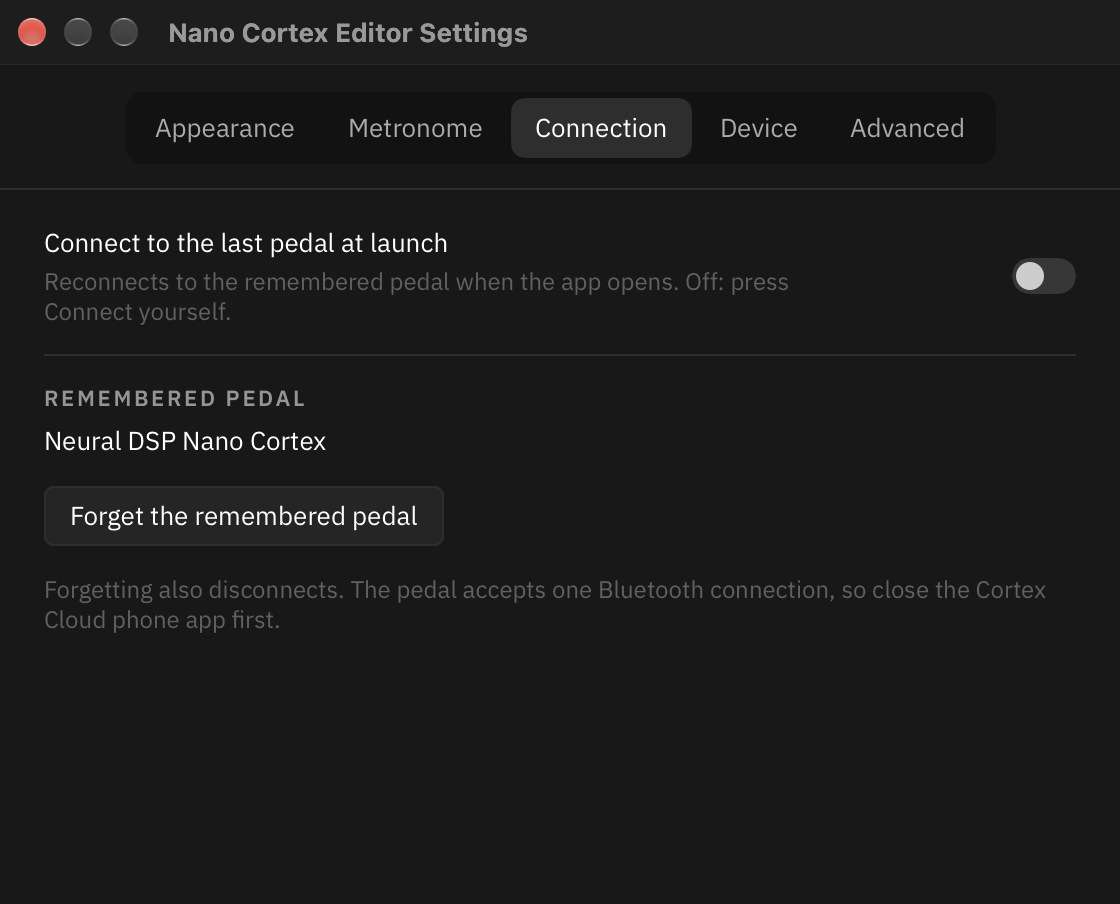
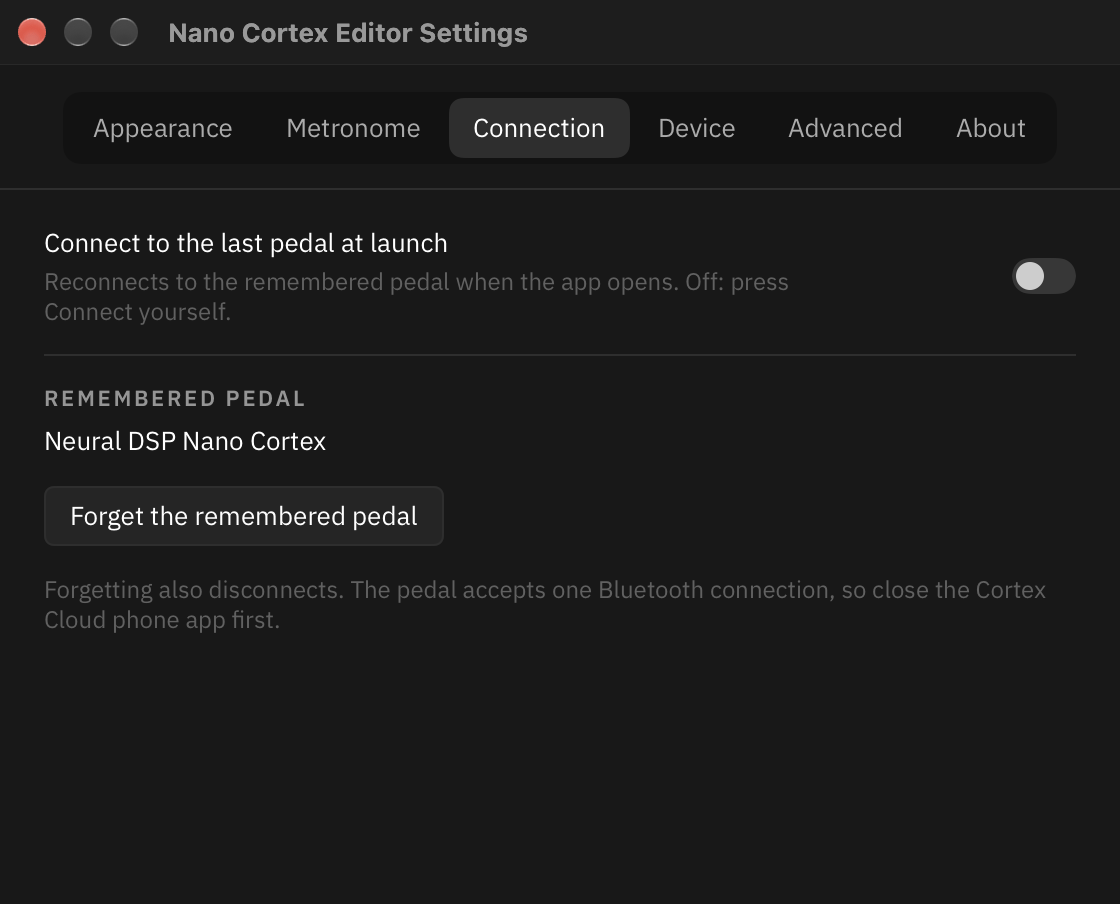
docs: manual and support links in README, manual, FUNDING.yml and release notes
- README: Download and Manual links under the intro; one Buy Me a Coffee line under License.
- .github/FUNDING.yml: buy_me_a_coffee: ajscreations.
- release.yml appends a closing Buy Me a Coffee line to the generated notes.
- MANUAL: connect problems and Troubleshooting link, ♥ Support, Help menu and About panel, Settings → About,
  Full manual… in the shortcuts sheet, one FAQ line. Screenshots retaken in demo mode with the blue accent:
  statusbar, connect-card, shortcuts, all Settings pages (new About tab), new settings-about.
- CHANGELOG: Help and About entry under 1.0.0.

Changed region(s): [[0.0938, 0.0929, 0.9062, 0.1858]]

diff --git a/docs/MANUAL.md b/docs/MANUAL.md
@@ -45,7 +45,7 @@ After that it opens like any other app. Updates: download the new zip and replac
 
 ## 2. Connecting
 
-<img src="images/connect-card.png" alt="The connect card: make the pedal visible, close the phone app, then Connect or Try the demo" width="494">
+<img src="images/connect-card.png" alt="The connect card: make the pedal visible, close the phone app, then Connect or Try the demo, and New here? Read the manual" width="494">
 
 1. **Make the pedal visible.** After powering it up, hold **EXIT + CAPTURE** for about a second until the Gain ring
    lights up. After a plain disconnect from the app it stays reachable, so you only need this after a power-up.
@@ -56,6 +56,10 @@ After that it opens like any other app. Updates: download the new zip and replac
    Privacy & Security → Bluetooth**.
 
 Syncing takes about two seconds: the preset names, the capture and cab slots and the current preset.
+
+If connecting doesn't get anywhere, the card says why while it keeps trying: Bluetooth is off, the app isn't allowed
+to use Bluetooth, or no pedal has turned up after about 20 seconds. **Troubleshooting** under the message opens
+[Troubleshooting](#16-troubleshooting) in your browser. **Read the manual** on the card opens this manual.
 
 **The remembered pedal.** After the first connection the app remembers your pedal. It reconnects at launch (you can
 turn this off in [Settings → Connection](#connection)), and if the pedal powers off it waits and reattaches by itself
@@ -113,11 +117,17 @@ pedal. The **Tempo** control at the top right belongs to the preset (see [Tempo]
 
 ### Status bar
 
-<img src="images/statusbar.png" alt="The status bar: link LED and state, firmware, last action, whether the preset matches the pedal, and Settings, Shortcuts, Record and Activity" width="1000">
+<img src="images/statusbar.png" alt="The status bar: link LED and state, firmware, last action, whether the preset matches the pedal, and Settings, Shortcuts, Record, Activity and Support" width="1000">
 
 The link LED and state (green when connected), the pedal's firmware, the last thing sent, and whether the preset
-matches what's saved on the pedal. On the right: **Settings**, **Shortcuts**, **Record** (session recording) and
-**Activity** (the protocol log, ⌘L).
+matches what's saved on the pedal. On the right: **Settings**, **Shortcuts**, **Record** (session recording),
+**Activity** (the protocol log, ⌘L) and **♥ Support**, which opens the project's Buy Me a Coffee page in your browser.
+
+### Help menu
+
+**Help** has **Nano Cortex Editor Manual** (this manual, on GitHub), **GitHub Repository**, **Report an Issue** and
+**Support the Project…**; they open in your browser. **Nano Cortex Editor → About Nano Cortex Editor** shows the
+version and the same links.
 
 ## 4. Presets
 
@@ -349,6 +359,13 @@ read-only; **Read again** re-reads them.
 (`~/Library/Logs/Nano Cortex Editor/activity.log`) with **Reveal in Finder**. (The *Dev remote* row only appears in
 debug builds made from source.)
 
+### About
+
+<img src="images/settings-about.png" alt="Settings, About: the app icon, name, version and Made by AJs Creations; links to the GitHub repository, the manual, the cross-platform edition and Buy me a coffee; the trademark note and the MIT license" width="560">
+
+The app's version and who made it, with links to the **GitHub repository**, this **Manual**, the **cross-platform
+edition** (macOS and Windows) and **Buy me a coffee**. They open in your browser.
+
 ## 13. Session recording and the Activity log
 
 **Activity** in the status bar (or **⌘L**, or **View → Activity Log**) opens the protocol log under the editor: every
@@ -385,6 +402,8 @@ Press **?** (when no text field has focus) or **View → Keyboard Shortcuts** fo
 | Click a value | Type an exact value |
 
 <img src="images/shortcuts.png" alt="The Keyboard shortcuts sheet" width="520">
+
+**Full manual…** at the bottom of the sheet opens this manual in your browser.
 
 ## 15. Menu bar extra
 
@@ -446,6 +465,9 @@ anything odd.
 
 **Where are my settings?** In the app's preferences (`com.community.nanocortex`); the Cortex Cloud login lives in the
 app's web data. Deleting the app keeps both.
+
+**Can I support the project?** It's free. If it saves you time, you can
+[buy me a coffee](https://buymeacoffee.com/ajscreations).
 
 ## 18. Trademarks
 

diff --git a/CHANGELOG.md b/CHANGELOG.md
@@ -34,6 +34,9 @@ First public release of the native macOS edition.
 - **Session recording** of every Bluetooth packet to JSON, and an **Activity** log (⌘L).
 - **Menu bar extra**: link state, current preset with previous/next, tuner, metronome.
 - **Demo mode**: a simulated pedal, to try everything without hardware.
+- **Help and About**: the Help menu and Settings → About link the manual, the repository, issue reporting and the
+  cross-platform edition; the connect card says why a connect isn't getting anywhere (Bluetooth off or not allowed,
+  no pedal found yet) with a Troubleshooting link. A quiet **♥ Support** link sits at the right end of the status bar.
 
 ### Known limitations
 - The app is **not notarised** (ad-hoc signed): the first launch needs right-click → Open, see the README.

diff --git a/README.md b/README.md
@@ -9,6 +9,9 @@ with a proper metronome. Unofficial and free (MIT).
 > **Unofficial.** Neural DSP and Nano Cortex are trademarks of Neural DSP Technologies Oy; this project is not
 > affiliated with or endorsed by Neural DSP.
 
+**[⬇ Download](https://github.com/AJs-Creations/nano-cortex-editor-mac/releases/latest)** ·
+**[📖 Manual](docs/MANUAL.md)**
+
 ## Features
 
 - **Preset browser**: all 64 presets with a filter; switching with unsaved edits asks first. Right-click a preset to
@@ -107,3 +110,5 @@ to say what the app works with. The app ships no Neural DSP logos or artwork.
 ## License
 
 [MIT](LICENSE) © 2026 AJs Creations
+
+If this editor saves you time, you can [buy me a coffee](https://buymeacoffee.com/ajscreations).
